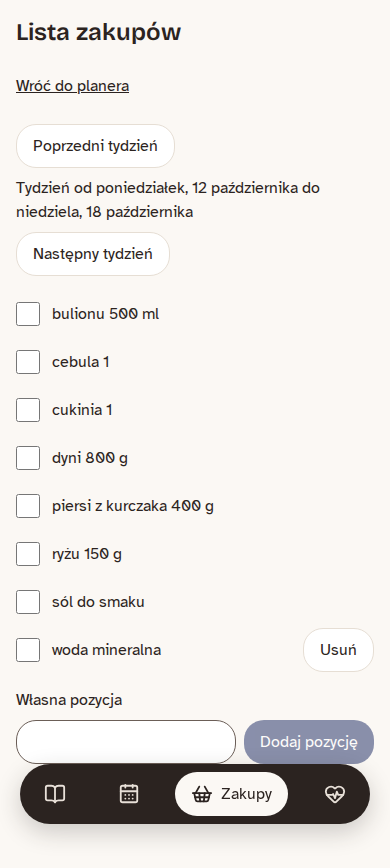
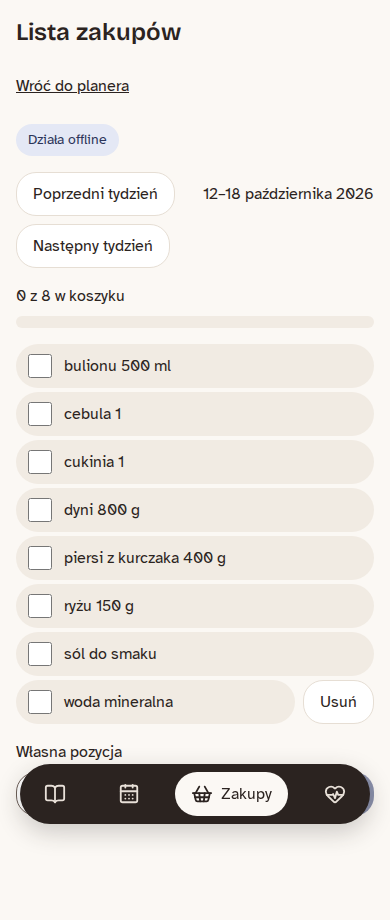
feat: shopping list basket counter, progress bar, offline badge and week range (S20)

Changed region(s): [[0.0308, 0.0311, 0.9846, 0.9643], [0.7692, 0.7154, 0.9231, 0.7776]]

diff --git a/tests/e2e/s20-shopping.spec.ts b/tests/e2e/s20-shopping.spec.ts
@@ -194,6 +194,114 @@ test.describe('S20: lista zakupów z planera', () => {
     await expect(page.getByRole('checkbox')).toHaveCount(2);
   });
 
+  test('S20: wybranie „Zakupy” w nawigacji otwiera bieżący tydzień z zakresem dat, także po oglądaniu innego', async ({
+    page,
+    request,
+  }) => {
+    await openApp(page, request);
+    await page.goto('/zakupy?tydzien=2026-10-19');
+    await expect(page.getByText('19–25 października 2026')).toBeVisible();
+
+    await page.getByRole('link', { name: 'Zakupy', exact: true }).click();
+
+    await expect(page.getByRole('heading', { level: 1, name: 'Lista zakupów' })).toBeVisible();
+    await expect(page.getByText('12–18 października 2026')).toBeVisible();
+    await expect(page).toHaveURL(/\/zakupy$/);
+  });
+
+  test('S20: lista z planera z oglądanym następnym tygodniem pokazuje jego zakres dat', async ({
+    page,
+    request,
+  }) => {
+    await openApp(page, request);
+    await page.goto('/planer?tydzien=2026-10-19');
+
+    await page.getByRole('link', { name: /lista zakupów/i }).click();
+
+    await expect(page.getByRole('heading', { level: 1, name: 'Lista zakupów' })).toBeVisible();
+    await expect(page.getByText('19–25 października 2026')).toBeVisible();
+  });
+
+  test('S20: nagłówek pokazuje licznik „n z m w koszyku” i pasek postępu, także po odhaczeniu offline', async ({
+    page,
+    context,
+    request,
+  }) => {
+    await openApp(page, request);
+    const recipe = await seedRecipe(page, {
+      title: 'Sałatka',
+      servings: 1,
+      ingredients: ['1 ogórek', '1 pomidor', '1 rzodkiewka', '1 cebula', '1 papryka'],
+    });
+    await plan(page, recipe, '2026-10-14', 1);
+    await page.reload();
+    await openList(page);
+    await expect(page.getByText('0 z 5 w koszyku')).toBeVisible();
+    await item(page, 'cebula 1').click();
+    await item(page, 'ogórek 1').click();
+
+    await expect(page.getByText('2 z 5 w koszyku')).toBeVisible();
+    await expect(page.getByRole('progressbar')).toHaveAttribute('aria-valuenow', '40');
+
+    await waitForOfflineData(page);
+    await goOffline(context, page);
+    await page.goto('/zakupy');
+    await item(page, 'pomidor 1').click();
+
+    await expect(page.getByText('3 z 5 w koszyku')).toBeVisible();
+    await expect(page.getByRole('progressbar')).toHaveAttribute('aria-valuenow', '60');
+  });
+
+  test('S20: licznik liczy także własne pozycje, a przy liście bez pozycji licznika i paska nie ma', async ({
+    page,
+    request,
+  }) => {
+    await openApp(page, request);
+    await page.goto('/zakupy');
+    await expect(page.getByText('Zaplanuj posiłki, żeby wygenerować listę')).toBeVisible();
+    await expect(page.getByText(/w koszyku/)).toHaveCount(0);
+    await expect(page.getByRole('progressbar')).toHaveCount(0);
+
+    await addOwn(page, 'papier do pieczenia');
+
+    await expect(page.getByText('0 z 1 w koszyku')).toBeVisible();
+    await expect(page.getByRole('progressbar')).toHaveAttribute('aria-valuenow', '0');
+  });
+
+  test('S20: lista pokazuje plakietkę „Działa offline”', async ({ page, request }) => {
+    await openApp(page, request);
+    await page.goto('/zakupy');
+
+    await expect(page.getByText('Działa offline', { exact: true })).toBeVisible();
+  });
+
+  test('S20: tapnięcie dowolnego miejsca wiersza przełącza odhaczenie, a odhaczona nazwa jest przekreślona', async ({
+    page,
+    request,
+  }) => {
+    await openApp(page, request);
+    const recipe = await seedRecipe(page, {
+      title: 'Sałatka',
+      servings: 1,
+      ingredients: ['1 ogórek', '1 pomidor'],
+    });
+    await plan(page, recipe, '2026-10-14', 1);
+    await page.reload();
+    await openList(page);
+
+    const row = toBuy(page).getByRole('listitem').filter({ hasText: 'ogórek 1' });
+    const box = await row.locator('label').boundingBox();
+    if (!box) throw new Error('row has no box');
+    // The far right edge of the row, well away from the check box and the text.
+    await page.mouse.click(box.x + box.width - 6, box.y + box.height / 2);
+
+    await expect(bought(page).getByRole('checkbox', { name: 'ogórek 1' })).toBeChecked();
+    await expect(bought(page).getByText('ogórek 1')).toHaveCSS(
+      'text-decoration-line',
+      'line-through',
+    );
+  });
+
   test('S20: odhaczona pozycja przechodzi do części odhaczonej, a ponowne tapnięcie cofa odhaczenie', async ({
     page,
     request,

diff --git a/src/client/screens/ShoppingScreen.tsx b/src/client/screens/ShoppingScreen.tsx
@@ -5,19 +5,24 @@ import {
   customItemResponseSchema,
 } from '../../shared/contracts/shopping';
 import { addDays, warsawDate, weekStart } from '../../shared/domain/cookStats';
-import { formatPlanDay, parseWeekParam } from '../../shared/domain/mealPlan';
+import { parseWeekParam } from '../../shared/domain/mealPlan';
 import {
   buildShoppingItems,
+  basketProgress,
   buildShoppingRows,
+  formatBasketProgress,
   formatShoppingItem,
+  formatShoppingWeek,
   type ShoppingRow,
 } from '../../shared/domain/shoppingList';
 import { ErrorNotice } from '../components/ErrorNotice';
 import { apiRequest } from '../data/api';
 import { useCollection, type CollectionState } from '../data/collection';
 import { useAction } from '../data/useAction';
+import { Badge } from '../components/ui/Badge';
 import { Button } from '../components/ui/Button';
 import { Input } from '../components/ui/Input';
+import { ProgressBar } from '../components/ui/ProgressBar';
 
 const WEEK_PARAM = 'tydzien';
 
@@ -47,7 +52,7 @@ function Row({ row, week }: { row: ShoppingRow; week: string }) {
   return (
     <li className="flex flex-col gap-1">
       <div className="flex items-center gap-2">
-        <label className="flex min-h-11 flex-1 cursor-pointer items-center gap-3">
+        <label className="flex min-h-11 flex-1 cursor-pointer items-center gap-3 rounded-lg bg-surface-muted px-3 py-2">
           <input
             type="checkbox"
             checked={row.checked}
@@ -134,9 +139,16 @@ function List({ state, week }: { state: Ready; week: string }) {
   const planned = buildShoppingItems(state.mealPlan, state.recipes, week).length > 0;
   const open = rows.filter((row) => !row.checked);
   const done = rows.filter((row) => row.checked);
+  const progress = basketProgress(rows);
 
   return (
     <>
+      {rows.length > 0 ? (
+        <div className="flex flex-col gap-2">
+          <p className="font-medium">{formatBasketProgress(progress)}</p>
+          <ProgressBar label="Postęp zakupów" value={progress.percent} max={100} />
+        </div>
+      ) : null}
       {!planned ? (
         <p role="status" className="rounded-lg bg-surface-muted p-3">
           Zaplanuj posiłki, żeby wygenerować listę
@@ -185,6 +197,7 @@ export function ShoppingScreen() {
       >
         Wróć do planera
       </Link>
+      <Badge className="self-start">Działa offline</Badge>
       {state.status === 'loading' ? (
         <p role="status" className="text-ink-muted">
           Ładowanie…
@@ -200,7 +213,7 @@ export function ShoppingScreen() {
               Poprzedni tydzień
             </Button>
             <p role="status" className="font-medium">
-              Tydzień od {formatPlanDay(week)} do {formatPlanDay(addDays(week, 6))}
+              {formatShoppingWeek(week)}
             </p>
             <Button onClick={() => goTo(addDays(week, 7))} variant="secondary">
               Następny tydzień

diff --git a/src/shared/domain/shoppingList.test.ts b/src/shared/domain/shoppingList.test.ts
@@ -4,8 +4,11 @@ import type { Ingredient } from '../contracts/recipe';
 import type { ShoppingCheck, ShoppingCustomItem } from '../contracts/shopping';
 import {
   buildShoppingItems,
+  basketProgress,
   buildShoppingRows,
+  formatBasketProgress,
   formatShoppingItem,
+  formatShoppingWeek,
   isItemChecked,
 } from './shoppingList';
 
@@ -189,5 +192,45 @@ describe('buildShoppingRows', () => {
       ['jajko', false],
       ['ryż', false],
     ]);
+  });
+});
+
+describe('basketProgress', () => {
+  const rows = (...checked: boolean[]) => checked.map((value) => ({ checked: value }));
+
+  it('S20: counts 2 of 5 as 40 percent', () => {
+    const progress = basketProgress(rows(true, true, false, false, false));
+    expect(progress).toEqual({ checked: 2, total: 5, percent: 40 });
+    expect(formatBasketProgress(progress)).toBe('2 z 5 w koszyku');
+  });
+
+  it('S20: counts one more tick as 3 of 5', () => {
+    expect(formatBasketProgress(basketProgress(rows(true, true, true, false, false)))).toBe(
+      '3 z 5 w koszyku',
+    );
+  });
+
+  it('rounds the percent to a whole number', () => {
+    expect(basketProgress(rows(true, false, false)).percent).toBe(33);
+    expect(basketProgress(rows(true, true, false)).percent).toBe(67);
+  });
+
+  it('is 0 percent for an empty list and 100 for a full basket', () => {
+    expect(basketProgress([])).toEqual({ checked: 0, total: 0, percent: 0 });
+    expect(basketProgress(rows(true, true)).percent).toBe(100);
+  });
+});
+
+describe('formatShoppingWeek', () => {
+  it('S20: writes a week inside one month', () => {
+    expect(formatShoppingWeek('2026-10-12')).toBe('12–18 października 2026');
+  });
+
+  it('S20: writes a week across two months', () => {
+    expect(formatShoppingWeek('2026-09-28')).toBe('28 września – 4 października 2026');
+  });
+
+  it('writes a week across a new year', () => {
+    expect(formatShoppingWeek('2026-12-28')).toBe('28 grudnia 2026 – 3 stycznia 2027');
   });
 });

diff --git a/src/shared/domain/shoppingList.ts b/src/shared/domain/shoppingList.ts
@@ -161,3 +161,46 @@ export function exportShoppingLists(input: {
     }))
     .filter((list) => list.items.length > 0);
 }
+
+/** How much of the list is in the basket: ticked and all rows, own items included (S20). */
+export type BasketProgress = { checked: number; total: number; percent: number };
+
+/** "2 z 5 w koszyku" worked out from the rows; the percent is whole and 0 for an empty list. */
+export function basketProgress(rows: readonly Pick<ShoppingRow, 'checked'>[]): BasketProgress {
+  const total = rows.length;
+  const checked = rows.filter((row) => row.checked).length;
+  return { checked, total, percent: total > 0 ? Math.round((checked / total) * 100) : 0 };
+}
+
+export const formatBasketProgress = ({ checked, total }: BasketProgress): string =>
+  `${checked} z ${total} w koszyku`;
+
+const dayMonth = new Intl.DateTimeFormat('pl-PL', {
+  timeZone: 'UTC',
+  day: 'numeric',
+  month: 'long',
+});
+const monthOf = (day: string) =>
+  dayMonth
+    .format(new Date(`${day}T00:00:00Z`))
+    .replace(/^\d+\s*/, '')
+    .trim();
+const dayOf = (day: string) => String(Number(day.slice(8, 10)));
+
+/**
+ * The span of the week starting at `weekStart` (a Monday), as the planner writes it:
+ * "12–18 października 2026", "28 września – 4 października 2026" or across a new year
+ * "28 grudnia 2026 – 3 stycznia 2027".
+ */
+export function formatShoppingWeek(weekStart: string): string {
+  const end = addDays(weekStart, 6);
+  const [startYear, endYear] = [weekStart.slice(0, 4), end.slice(0, 4)];
+  const [startMonth, endMonth] = [monthOf(weekStart), monthOf(end)];
+  if (startYear !== endYear) {
+    return `${dayOf(weekStart)} ${startMonth} ${startYear} – ${dayOf(end)} ${endMonth} ${endYear}`;
+  }
+  if (startMonth !== endMonth) {
+    return `${dayOf(weekStart)} ${startMonth} – ${dayOf(end)} ${endMonth} ${endYear}`;
+  }
+  return `${dayOf(weekStart)}–${dayOf(end)} ${endMonth} ${endYear}`;
+}
